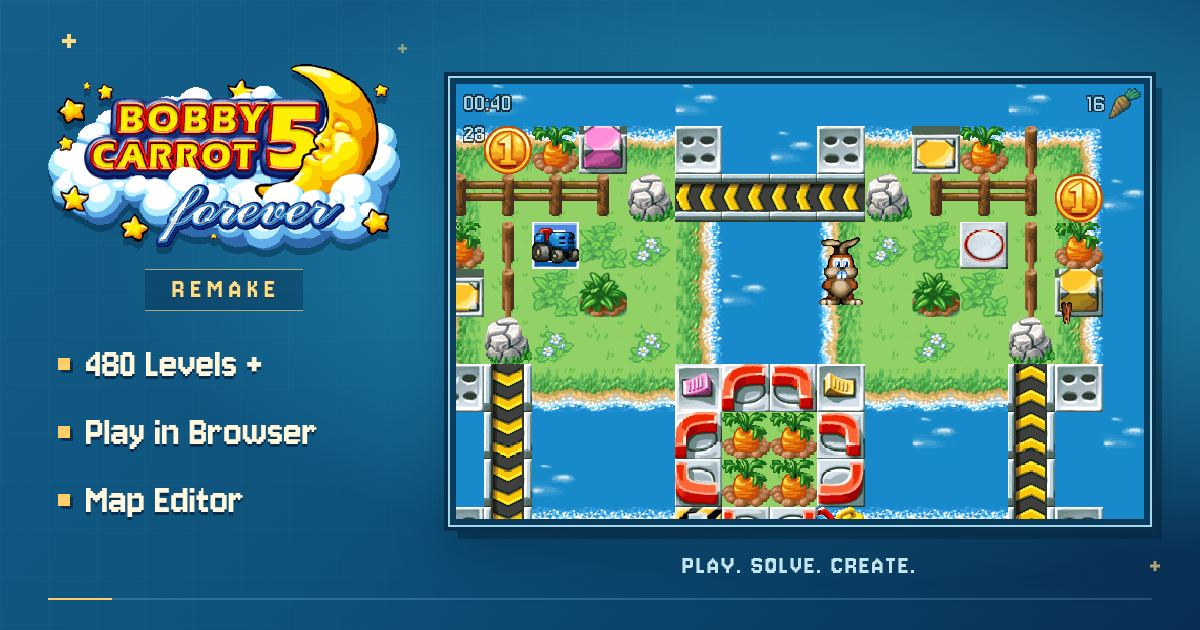
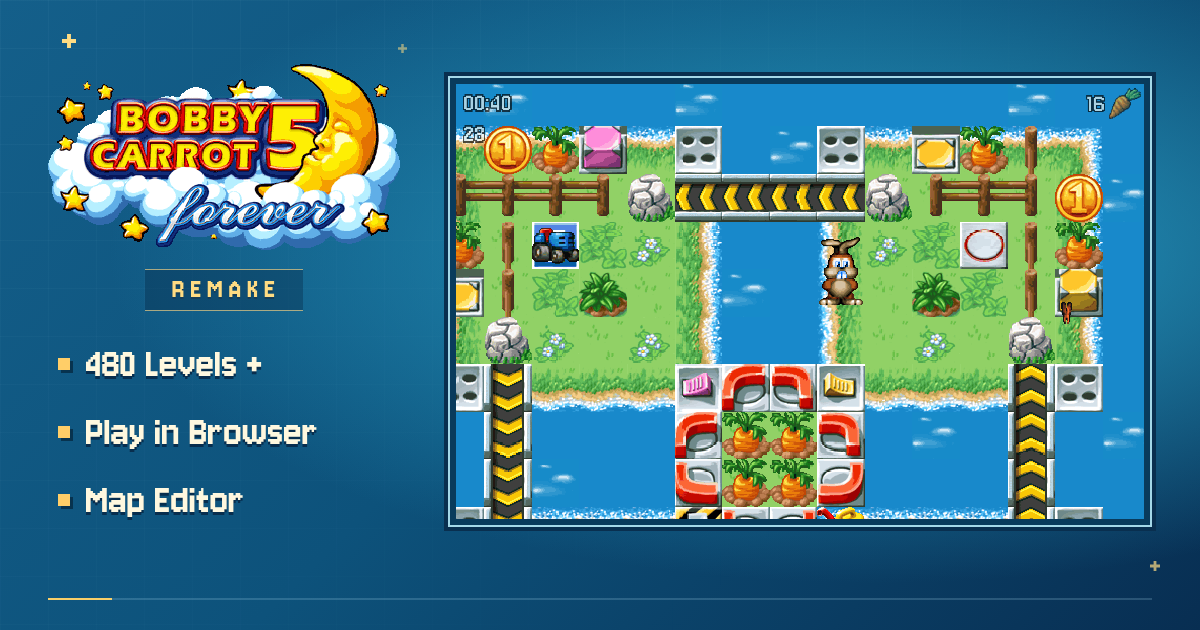
分享图预览支持固定双语文案并简化图片效果

diff --git a/tools/seo/og-preview.html b/tools/seo/og-preview.html
@@ -12,6 +12,13 @@
         font-weight: 400;
       }
 
+      @font-face {
+        font-family: "Noto Sans SC Share";
+        src: url("./fonts/NotoSansSC-Share.woff2") format("woff2");
+        font-style: normal;
+        font-weight: 800;
+      }
+
       * {
         box-sizing: border-box;
       }
@@ -78,7 +85,6 @@
         width: 100%;
         height: auto;
         image-rendering: pixelated;
-        filter: drop-shadow(0 7px 0 rgb(3 28 52 / 35%));
       }
 
       .remake {
@@ -168,10 +174,7 @@
         padding: 6px;
         border: 2px solid #a4d8e8;
         background: #093b5c;
-        box-shadow:
-          0 0 0 4px #092f4f,
-          10px 12px 0 rgb(3 29 50 / 40%),
-          0 24px 48px rgb(0 20 40 / 30%);
+        outline: 4px solid #092f4f;
       }
 
       .gameplay img {
@@ -181,13 +184,21 @@
         image-rendering: pixelated;
       }
 
-      .gameplay figcaption {
-        margin-top: 25px;
-        color: #c2e5ee;
-        font-size: 28px;
-        line-height: 1;
-        letter-spacing: 2px;
-        text-align: center;
+      :lang(zh-CN) body {
+        font-family: "Noto Sans SC Share", sans-serif;
+      }
+
+      :lang(zh-CN) .remake {
+        padding: 6px 20px 7px 26px;
+        font-size: 25px;
+        font-weight: 800;
+      }
+
+      :lang(zh-CN) .features li {
+        font-size: 36px;
+        font-weight: 800;
+        letter-spacing: 1px;
+        text-shadow: 0 2px 0 #082e4e;
       }
     </style>
   </head>
@@ -199,21 +210,21 @@
 
       <h1 class="brand" aria-label="Bobby Carrot 5 Remake">
         <img class="logo" src="../../assets/art/hd/title.png" width="335" height="177" alt="Bobby Carrot 5" />
-        <span class="remake">REMAKE</span>
+        <span class="remake" data-copy="remake">REMAKE</span>
       </h1>
 
       <ul class="features">
         <li>
           <span class="feature-marker" aria-hidden="true"></span>
-          <span>480 Levels +</span>
+          <span data-copy="levels">480 Levels +</span>
         </li>
         <li>
           <span class="feature-marker" aria-hidden="true"></span>
-          <span>Play in Browser</span>
+          <span data-copy="browser">Play in Browser</span>
         </li>
         <li>
           <span class="feature-marker" aria-hidden="true"></span>
-          <span>Map Editor</span>
+          <span data-copy="editor">Map Editor</span>
         </li>
       </ul>
 
@@ -221,8 +232,41 @@
         <div class="gameplay-frame">
           <img src="./screenshot-18-8.png" alt="Bobby exploring a puzzle with carrots, switches and conveyor belts" />
         </div>
-        <figcaption>PLAY. SOLVE. CREATE.</figcaption>
       </figure>
     </main>
+    <script>
+      const locale = new URLSearchParams(location.search).get("lang") === "zh-CN"
+        ? "zh-CN"
+        : "en";
+      const copy = {
+        "zh-CN": {
+          name: "兔子波比5重制版",
+          logo: "兔子波比5",
+          remake: "重制版",
+          levels: "480 关卡 +",
+          browser: "浏览器畅玩",
+          editor: "地图编辑器",
+          gameplay: "波比探索包含胡萝卜、开关和传送带的谜题",
+        },
+        en: {
+          name: "Bobby Carrot 5 Remake",
+          logo: "Bobby Carrot 5",
+          remake: "REMAKE",
+          levels: "480 Levels +",
+          browser: "Play in Browser",
+          editor: "Map Editor",
+          gameplay: "Bobby exploring a puzzle with carrots, switches and conveyor belts",
+        },
+      }[locale];
+
+      document.documentElement.lang = locale;
+      document.title = `${copy.name} — 分享图`;
+      document.querySelector(".brand").setAttribute("aria-label", copy.name);
+      document.querySelector(".logo").alt = copy.logo;
+      document.querySelector(".gameplay img").alt = copy.gameplay;
+      for (const element of document.querySelectorAll("[data-copy]")) {
+        element.textContent = copy[element.dataset.copy];
+      }
+    </script>
   </body>
 </html>

diff --git a/tools/seo/README.md b/tools/seo/README.md
@@ -1,0 +1,18 @@
+# 分享图预览
+
+`og-preview.html` 使用 1200 × 630 画布，原始游戏截图为同目录的
+`screenshot-18-8.png`。通过 URL 参数选择固定文案：
+
+- `og-preview.html?lang=en`：英文，也是省略参数时的默认语言。
+- `og-preview.html?lang=zh-CN`：中文。
+
+用 Chromium 打开对应地址，等待图片与字体加载完成后截图；正式图片保存为
+`assets/seo/og-preview-en.png` 和 `assets/seo/og-preview-zh-CN.png`。
+
+英文使用项目共享的 Jersey 10。中文使用 `fonts/NotoSansSC-Share.woff2`，由
+[Google Fonts 的 Noto Sans SC](https://github.com/google/fonts/tree/main/ofl/notosanssc)
+按字重 800 和固定文案提取 WOFF2 子集，继续适用随附的 `fonts/OFL.txt`。
+字体来源为 Google Fonts CSS API 的 `family=Noto Sans SC:wght@800`，`text` 参数为
+`重制版480 关卡+浏览器畅玩地图编辑器`；增加中文文案时需要同步更新字体子集。
+
+Logo、游戏截图及其派生分享图的第三方权利边界见根目录 `THIRD_PARTY_ASSETS.md`。

diff --git a/THIRD_PARTY_ASSETS.md b/THIRD_PARTY_ASSETS.md
@@ -93,6 +93,21 @@ https://github.com/scfried/soft-type-jersey
 
 Jersey 10 字体文件继续适用其随附的 `OFL.txt`，不属于本项目根目录 `LICENSE` 的授权范围。
 
+## Noto Sans SC
+
+分享图预览工具使用 Noto Sans SC 的 800 字重。字体来自 Google Fonts，
+`tools/seo/fonts/NotoSansSC-Share.woff2` 为按预览固定文案取得的 WOFF2 子集。
+来源与字形范围见 `tools/seo/README.md`。
+
+上游地址：
+
+```text
+https://github.com/google/fonts/tree/main/ofl/notosanssc
+```
+
+字体继续按随附的 `tools/seo/fonts/OFL.txt`（SIL Open Font License 1.1）授权，
+不属于本项目根目录 `LICENSE` 的授权范围。
+
 ## 许可证边界
 
 `LICENSE` 仅授权 Bobby Carrot 5 Remake 项目自身原创的源代码、文档及其他由相应作者有权许可的原创材料。
